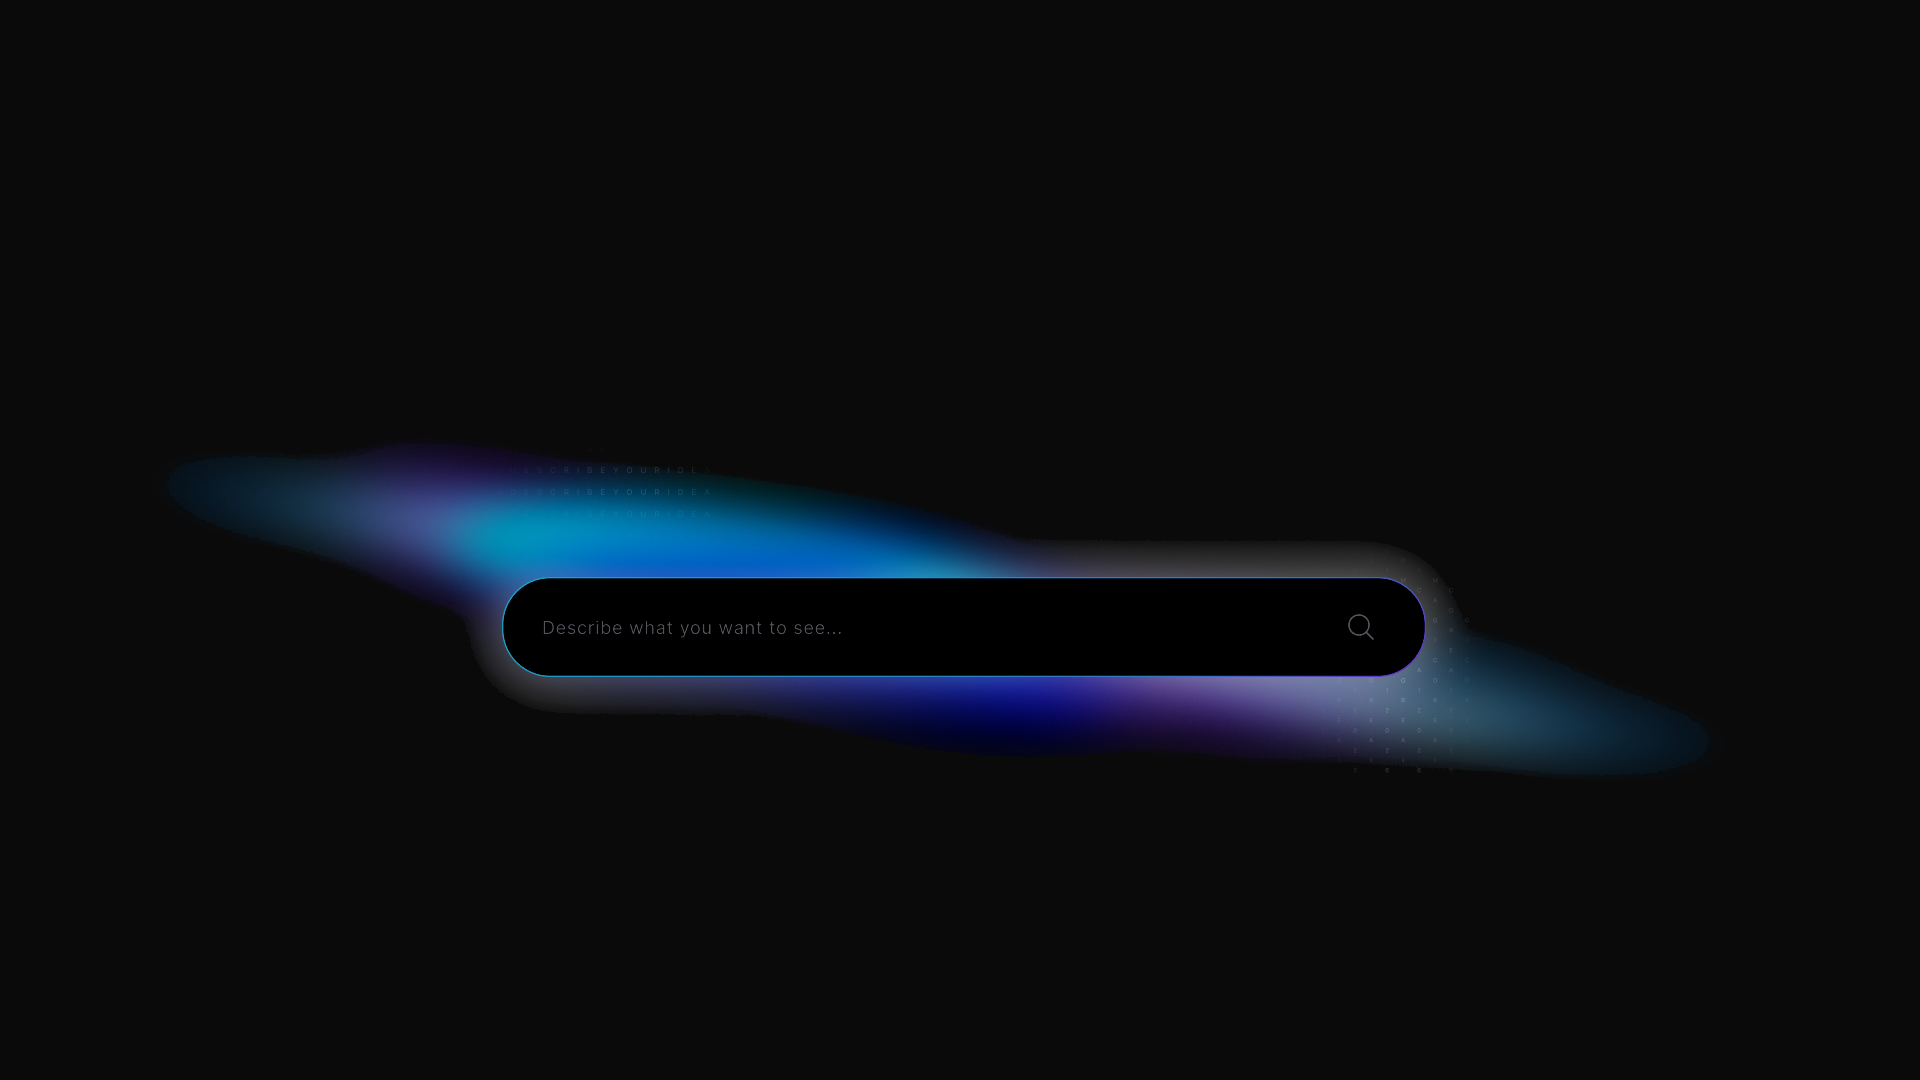
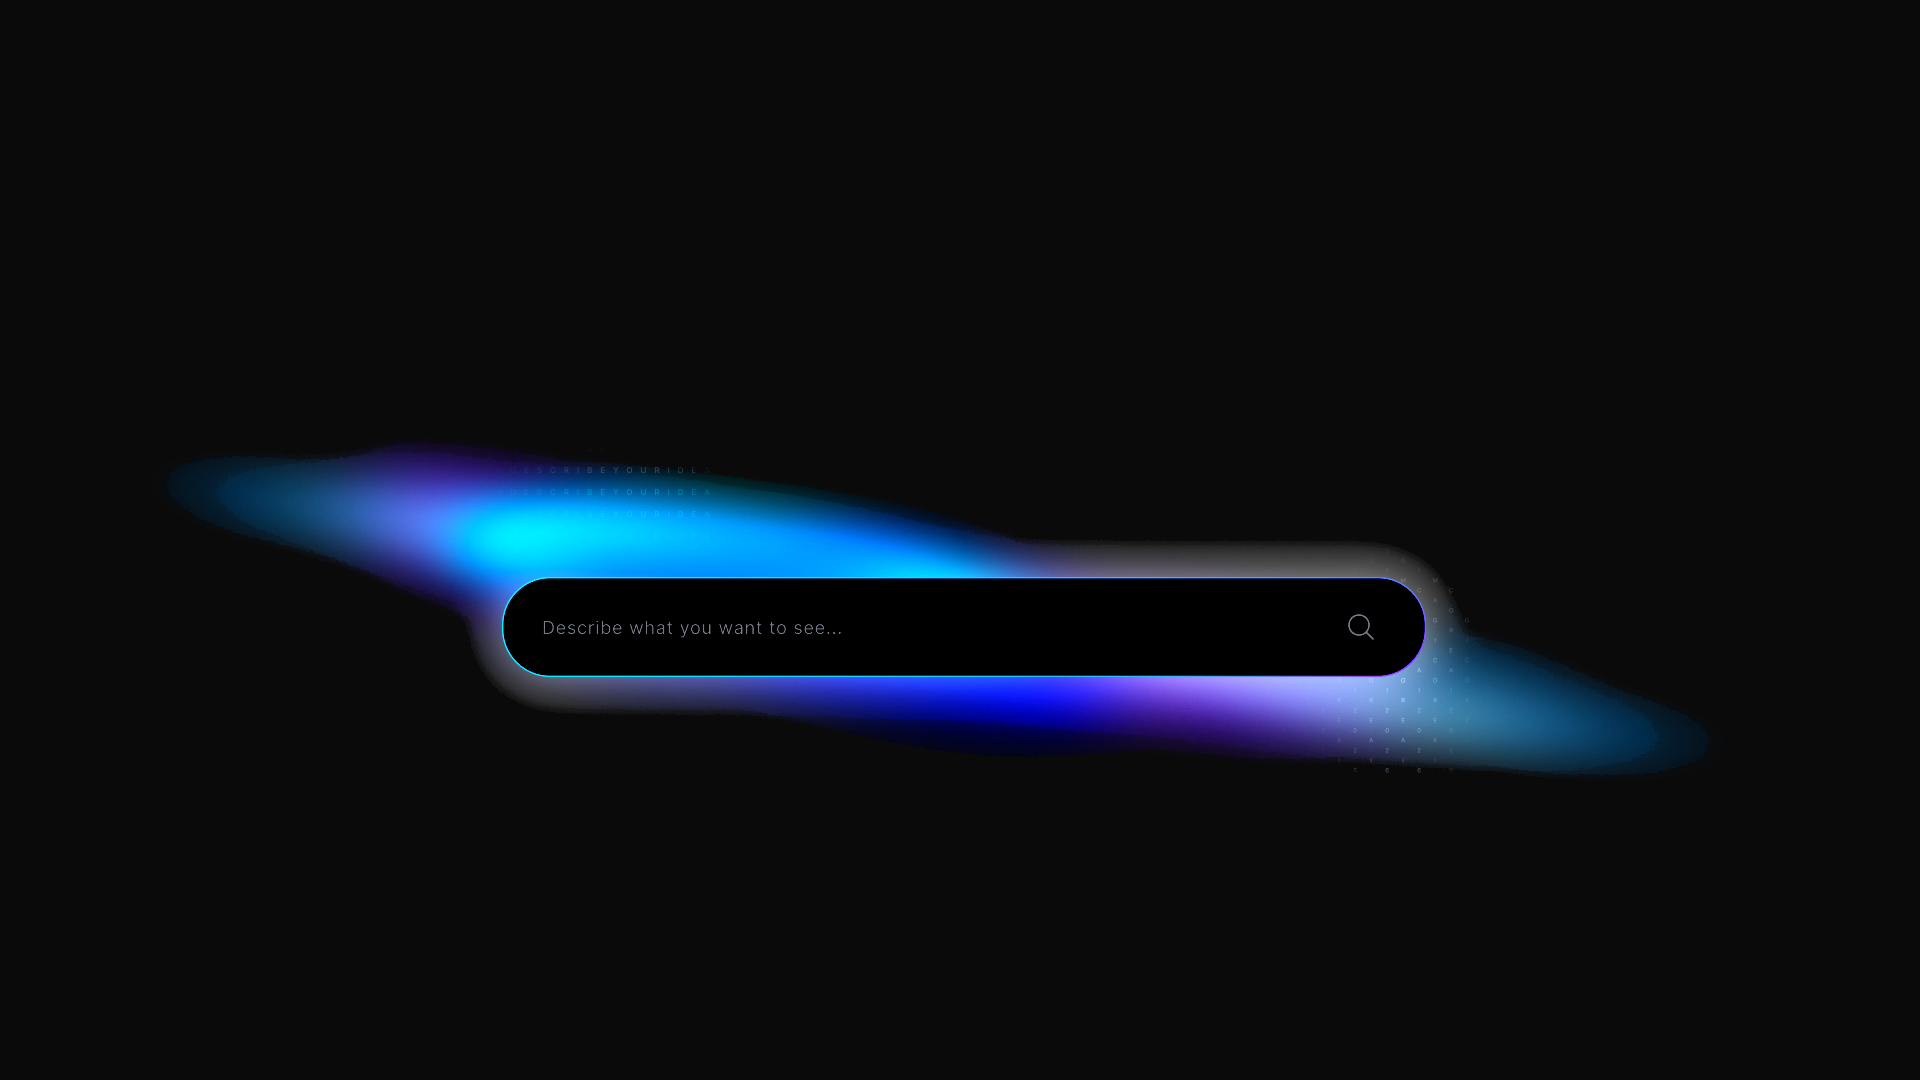
fix(web): polish MagiCore homepage and clear Vite import warnings
Center homepage nav like Figma, brighten hero glow assets, and split countries data so dynamic imports can chunk.

Changed region(s): [[0.0938, 0.3972, 0.875, 0.7333]]

diff --git a/apps/web/src/components/MagiCoreHomePage.tsx b/apps/web/src/components/MagiCoreHomePage.tsx
@@ -124,26 +124,30 @@ function MagiCoreHomeNav({ onStart }: { onStart: () => void }) {
     <>
       {/* Figma 238:3247 navbar — absolute overlay, transparent (no solid plate) */}
       <header className="pointer-events-none absolute inset-x-0 top-0 z-50 w-full">
-        <div className="pointer-events-auto mx-auto flex max-w-[1920px] items-center justify-between gap-4 px-5 py-6 sm:px-8 sm:py-8 lg:px-12 xl:px-20">
-          <Link to="/" className="flex shrink-0 items-center gap-2.5" aria-label="MagiCoreAI">
-            <img src={LOGO_MARK} alt="" className="h-7 w-auto select-none" draggable={false} />
-            <span className="text-[17px] font-semibold tracking-tight text-white">MagiCoreAI</span>
-          </Link>
+        <div className="pointer-events-auto mx-auto flex max-w-[1920px] items-center justify-between gap-4 px-5 py-6 sm:px-8 sm:py-8 lg:px-12 lg:py-10 xl:px-20">
+          {/* Figma: left brand column w-[300px] — equal side columns keep nav optically centered */}
+          <div className="flex min-w-0 flex-1 basis-0 items-center justify-start gap-[13px]">
+            <Link to="/" className="flex shrink-0 items-center gap-[13px]" aria-label="MagiCoreAI">
+              <img src={LOGO_MARK} alt="" className="h-7 w-auto select-none" draggable={false} />
+              <span className="text-[17px] font-semibold tracking-tight text-white">MagiCoreAI</span>
+            </Link>
+          </div>
 
-          <nav className="hidden items-center gap-16 lg:flex">
+          <nav className="hidden shrink-0 items-center gap-16 font-normal text-[16px] leading-normal text-white lg:flex">
             {NAV_LINKS.map((item) => (
               <button
                 key={item.key}
                 type="button"
                 onClick={() => goOrLogin(item.to)}
-                className="text-[16px] text-white transition-colors hover:text-white/80"
+                className="whitespace-nowrap text-center text-[16px] font-normal leading-normal text-white transition-colors hover:text-white/80"
               >
                 {t(item.key)}
               </button>
             ))}
           </nav>
 
-          <div className="hidden items-center gap-8 lg:flex">
+          {/* Figma: right actions column w-[300px] justify-end gap-[32px] */}
+          <div className="hidden min-w-0 flex-1 basis-0 items-center justify-end gap-8 lg:flex">
             <LanguageSwitcher
               variant="header"
               iconOnly
@@ -161,7 +165,7 @@ function MagiCoreHomeNav({ onStart }: { onStart: () => void }) {
               <button
                 type="button"
                 onClick={() => openLogin({ mode: "signin", redirectTo: DEFAULT_START })}
-                className="flex h-[44px] items-center justify-center rounded-full border border-[#8b8e94] px-4 text-[16px] text-white transition-colors hover:border-white/70"
+                className="flex h-[44px] items-center justify-center rounded-full border border-[#8b8e94] px-4 text-[16px] font-normal text-white transition-colors hover:border-white/70"
               >
                 {t("home.mc.nav.login")}
               </button>

diff --git a/apps/web/src/megickcut/stickers/providers/countries-data.ts b/apps/web/src/megickcut/stickers/providers/countries-data.ts
@@ -1,41 +1,6 @@
-export const REGIONS = [
-	{ id: "Western Europe", aliases: ["west europe"] },
-	{ id: "Eastern Europe", aliases: ["east europe"] },
-	{ id: "Northern Europe", aliases: ["north europe"] },
-	{ id: "Southern Europe", aliases: ["south europe"] },
-	{ id: "South Asia", aliases: ["southern asia"] },
-	{ id: "Southeast Asia", aliases: ["south east asia"] },
-	{ id: "East Asia", aliases: ["eastern asia", "far east"] },
-	{ id: "Central Asia", aliases: [] },
-	{ id: "Middle East", aliases: ["west asia"] },
-	{ id: "North Africa", aliases: ["northern africa"] },
-	{ id: "Sub-Saharan Africa", aliases: ["subsaharan africa"] },
-	{ id: "North America", aliases: ["northern america"] },
-	{ id: "South America", aliases: ["southern america", "latin america"] },
-	{ id: "Central America", aliases: ["central am"] },
-	{ id: "Caribbean", aliases: ["caribbean islands"] },
-	{ id: "Oceania", aliases: ["pacific", "pacific islands"] },
-	{ id: "Antarctica", aliases: [] },
-	{ id: "Atlantic Ocean", aliases: ["atlantic"] },
-	{ id: "North Atlantic", aliases: [] },
-] as const;
+import type { CountryRecord } from "./countries-meta";
 
-export type RegionId = (typeof REGIONS)[number]["id"];
-
-export const REGION_GROUPS: Partial<Record<string, RegionId[]>> = {
-	europe: ["Western Europe", "Eastern Europe", "Northern Europe", "Southern Europe"],
-	asia: ["South Asia", "Southeast Asia", "East Asia", "Central Asia"],
-	africa: ["Sub-Saharan Africa", "North Africa"],
-	america: ["North America", "South America", "Central America", "Caribbean"],
-};
-
-export interface CountryRecord {
-	name: string;
-	code: string;
-	languages?: string[];
-	flag_colors?: string[];
-	region?: RegionId;
-}
+export type { CountryRecord } from "./countries-meta";
 
 export const COUNTRIES: CountryRecord[] = [
 	{

diff --git a/apps/web/src/megickcut/stickers/providers/countries-meta.ts b/apps/web/src/megickcut/stickers/providers/countries-meta.ts
@@ -1,0 +1,38 @@
+export const REGIONS = [
+	{ id: "Western Europe", aliases: ["west europe"] },
+	{ id: "Eastern Europe", aliases: ["east europe"] },
+	{ id: "Northern Europe", aliases: ["north europe"] },
+	{ id: "Southern Europe", aliases: ["south europe"] },
+	{ id: "South Asia", aliases: ["southern asia"] },
+	{ id: "Southeast Asia", aliases: ["south east asia"] },
+	{ id: "East Asia", aliases: ["eastern asia", "far east"] },
+	{ id: "Central Asia", aliases: [] },
+	{ id: "Middle East", aliases: ["west asia"] },
+	{ id: "North Africa", aliases: ["northern africa"] },
+	{ id: "Sub-Saharan Africa", aliases: ["subsaharan africa"] },
+	{ id: "North America", aliases: ["northern america"] },
+	{ id: "South America", aliases: ["southern america", "latin america"] },
+	{ id: "Central America", aliases: ["central am"] },
+	{ id: "Caribbean", aliases: ["caribbean islands"] },
+	{ id: "Oceania", aliases: ["pacific", "pacific islands"] },
+	{ id: "Antarctica", aliases: [] },
+	{ id: "Atlantic Ocean", aliases: ["atlantic"] },
+	{ id: "North Atlantic", aliases: [] },
+] as const;
+
+export type RegionId = (typeof REGIONS)[number]["id"];
+
+export const REGION_GROUPS: Partial<Record<string, RegionId[]>> = {
+	europe: ["Western Europe", "Eastern Europe", "Northern Europe", "Southern Europe"],
+	asia: ["South Asia", "Southeast Asia", "East Asia", "Central Asia"],
+	africa: ["Sub-Saharan Africa", "North Africa"],
+	america: ["North America", "South America", "Central America", "Caribbean"],
+};
+
+export interface CountryRecord {
+	name: string;
+	code: string;
+	languages?: string[];
+	flag_colors?: string[];
+	region?: RegionId;
+}

diff --git a/apps/web/src/components/MagiCoreImgTopLeft.tsx b/apps/web/src/components/MagiCoreImgTopLeft.tsx
@@ -3,7 +3,7 @@
  * Design frame: 519×354 with clipped Ellipse 8 glow (rotated / skewed)
  */
 const ASSET = "/brand/magicore/home";
-const V = "2";
+const V = "3";
 
 type MagiCoreImgTopLeftProps = {
   className?: string;
@@ -15,12 +15,14 @@ export function MagiCoreImgTopLeft({ className = "" }: MagiCoreImgTopLeftProps) 
       aria-hidden
       data-node-id="238:7490"
       data-name="img-top left"
-      className={`pointer-events-none absolute left-0 top-0 z-[1] h-[220px] w-[320px] overflow-hidden sm:h-[280px] sm:w-[420px] lg:h-[354px] lg:w-[519px] ${className}`}
+      className={`pointer-events-none absolute left-0 top-0 z-[1] h-[220px] w-[320px] overflow-hidden mix-blend-screen sm:h-[280px] sm:w-[420px] lg:h-[354px] lg:w-[519px] ${className}`}
     >
+      {/* Soft fill so left bloom reads brighter against #0a0a0a (Figma Ellipse 8) */}
+      <div className="absolute inset-0 bg-[radial-gradient(ellipse_at_0%_20%,rgba(0,180,255,0.28)_0%,rgba(140,220,255,0.12)_38%,transparent_70%)]" />
       {/* Ellipse 8 — Figma transform plate */}
       <div className="absolute left-[-192px] top-[-226.36px] flex h-[1161.642px] w-[1685.586px] items-center justify-center">
         <div
-          className="relative h-[1117.853px] w-[1077.188px] shrink-0"
+          className="relative h-[1117.853px] w-[1077.188px] shrink-0 brightness-125 saturate-150"
           style={{
             transform: "rotate(-13deg) skewX(21.68deg) scaleY(-0.93)",
           }}

diff --git a/apps/web/src/components/MagiCoreBgTop.tsx b/apps/web/src/components/MagiCoreBgTop.tsx
@@ -3,7 +3,7 @@
  * Full-bleed static asset (glow + prompt bar). Not an input.
  * Parent must establish size (homepage uses aspect-ratio 1920/1080).
  */
-const BG_TOP_SRC = "/brand/magicore/home/hero-bg-top.png?v=2";
+const BG_TOP_SRC = "/brand/magicore/home/hero-bg-top.png?v=3";
 
 export function MagiCoreBgTop() {
   return (
@@ -13,7 +13,7 @@ export function MagiCoreBgTop() {
       aria-hidden
       data-node-id="238:6440"
       data-name="bg-top"
-      className="pointer-events-none absolute inset-0 z-0 size-full select-none object-cover object-top"
+      className="pointer-events-none absolute inset-0 z-0 size-full select-none object-cover object-top brightness-[1.08] saturate-[1.15]"
       draggable={false}
     />
   );

diff --git a/apps/web/src/megickcut/integration/editor-shell.tsx b/apps/web/src/megickcut/integration/editor-shell.tsx
@@ -53,6 +53,7 @@ import { useAssetsPanelStore } from "@/megickcut/components/editor/panels/assets
 import {
   createSessionMediaItem,
   findSessionMediaByResultId,
+  getStudioSession,
   importSessionMediaItem,
   studioMediaSourceKey,
 } from "@/megickcut/integration/session-media";
@@ -323,7 +324,6 @@ function AutoImportByResultId({
       });
 
       try {
-        const { getStudioSession } = await import("@/megickcut/integration/session-media");
         const session = await getStudioSession({ sessionId: sourceSessionId });
         const item = findSessionMediaByResultId({
           session,

diff --git a/apps/web/src/megickcut/stickers/providers/flags.ts b/apps/web/src/megickcut/stickers/providers/flags.ts
@@ -5,8 +5,8 @@ import type {
 	StickerProvider,
 	StickerSearchResult,
 } from "../types";
-import { REGIONS, REGION_GROUPS } from "./countries-data";
-import type { CountryRecord, RegionId } from "./countries-data";
+import { REGIONS, REGION_GROUPS } from "./countries-meta";
+import type { CountryRecord, RegionId } from "./countries-meta";
 
 const FLAGS_PROVIDER_ID = "flags";
 const DEFAULT_SEARCH_LIMIT = 100;
